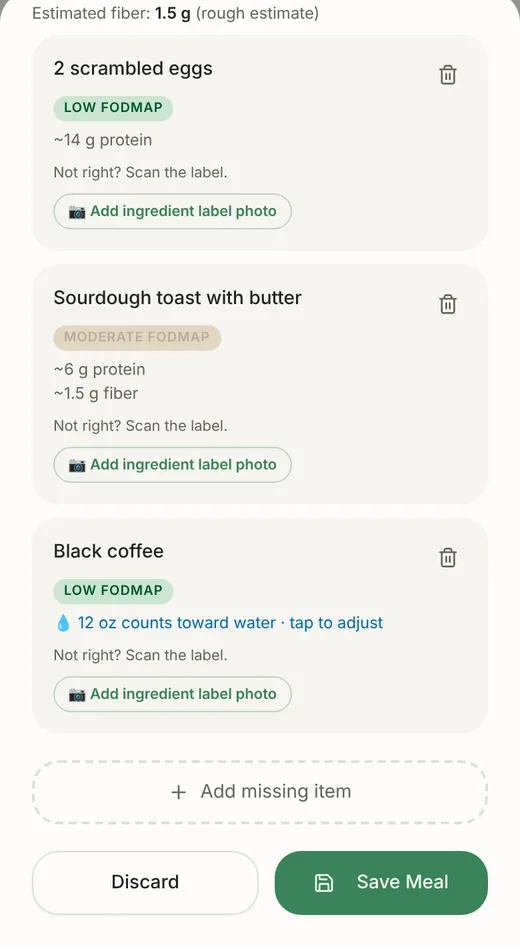
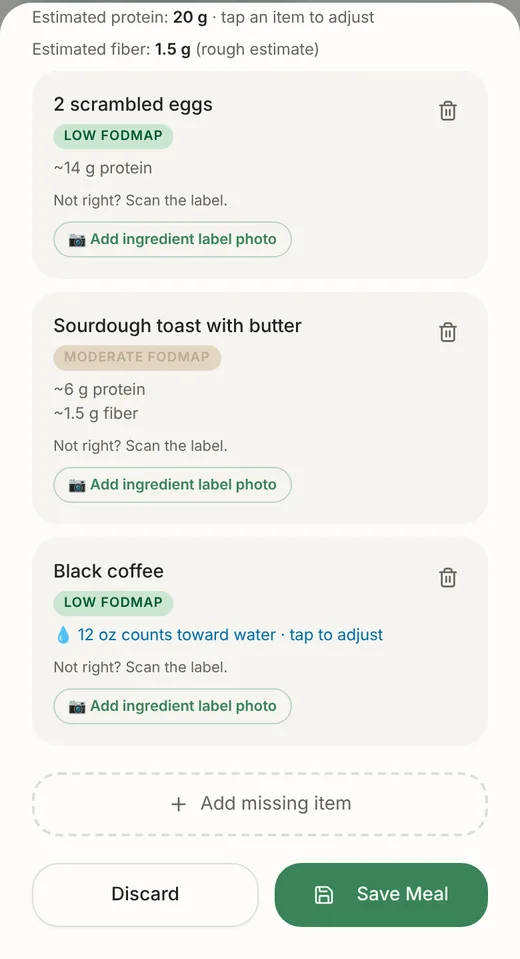
Landing: current-UI screenshots with sample-data note
Claude-Session: https://claude.ai/code/session_01KXyvZ2GsDTo13FrmtB1u6Z

diff --git a/server/seo/routes.ts b/server/seo/routes.ts
@@ -26,10 +26,11 @@ export function landingPage(): string {
 
 <section class="wide">
 <div class="shots">
-<figure><img src="/landing/scan.webp" width="520" height="947" loading="lazy" alt="Scanning a meal photo in Triggerplate to list foods and possible hidden ingredients"><figcaption>Snap a meal, confirm what you ate</figcaption></figure>
-<figure><img src="/landing/today.webp" width="520" height="733" loading="lazy" alt="Triggerplate Today view showing meals, symptoms, protein and water"><figcaption>See your day at a glance</figcaption></figure>
-<figure><img src="/landing/triggers.webp" width="520" height="733" loading="lazy" alt="Triggerplate list of possible food triggers with sample-size notes"><figcaption>Possible triggers, with the uncertainty shown</figcaption></figure>
+<figure><img src="/landing/scan.webp" width="520" height="959" loading="lazy" alt="Scanning a meal photo in Triggerplate to list foods and possible hidden ingredients"><figcaption>Snap a meal, confirm what you ate</figcaption></figure>
+<figure><img src="/landing/today.webp" width="520" height="920" loading="lazy" alt="Triggerplate Today view showing meals, symptoms, protein and water"><figcaption>See your day, and a 7-day score based on your symptoms</figcaption></figure>
+<figure><img src="/landing/triggers.webp" width="520" height="713" loading="lazy" alt="Triggerplate list of possible food triggers with sample-size notes"><figcaption>Possible triggers, with the uncertainty shown</figcaption></figure>
 </div>
+<p class="note" style="text-align:center">Screenshots show sample data.</p>
 </section>
 
 <section class="wide">

diff --git a/PROJECT_MEMORY.md b/PROJECT_MEMORY.md
@@ -150,4 +150,5 @@ This file is the durable context for future Cursor chats in this workspace.
 - Landing page keeps `?invite=CODE` links working: an inline script saves it to localStorage `tp_invite` (same key as client/src/lib/invite.ts) and cleans the URL. Ad/Reddit links can point at `/?invite=CODE`.
 - 5 starter posts in `server/seo/posts.ts`, each cited from NHS/dietitian sources (Gloucestershire NHS reintro PDF, Leicester NHS IBS food diary PDF, Monash label reading, Diet vs Disease). Keep claims within the listed sources. No drug/peptide names on any public page (enforced by `server/seo.test.ts`).
 - To add a post: append to `POSTS` (slug, title, description <=175 chars, published date, sources, body HTML). Sitemap updates automatically.
-- Known: landing screenshots in `client/public/landing/` are older UI (today.webp still shows the old "Gut Health Score 55 Improving"). Replace before sending real traffic.
+- Landing screenshots (`client/public/landing/{scan,today,triggers}.webp`, 520px wide) were regenerated Oct 28 from the current UI with demo data (captioned "Screenshots show sample data"). Regenerate whenever Home/Insights UI changes. Onboarding slides reuse these files.
+- Local test gotcha: the session cookie is Secure, so over plain http://localhost the browser does not send it on full-page loads of `/` (the server then shows the landing page). Reach the app via /auth (client-side redirect) in Playwright.
